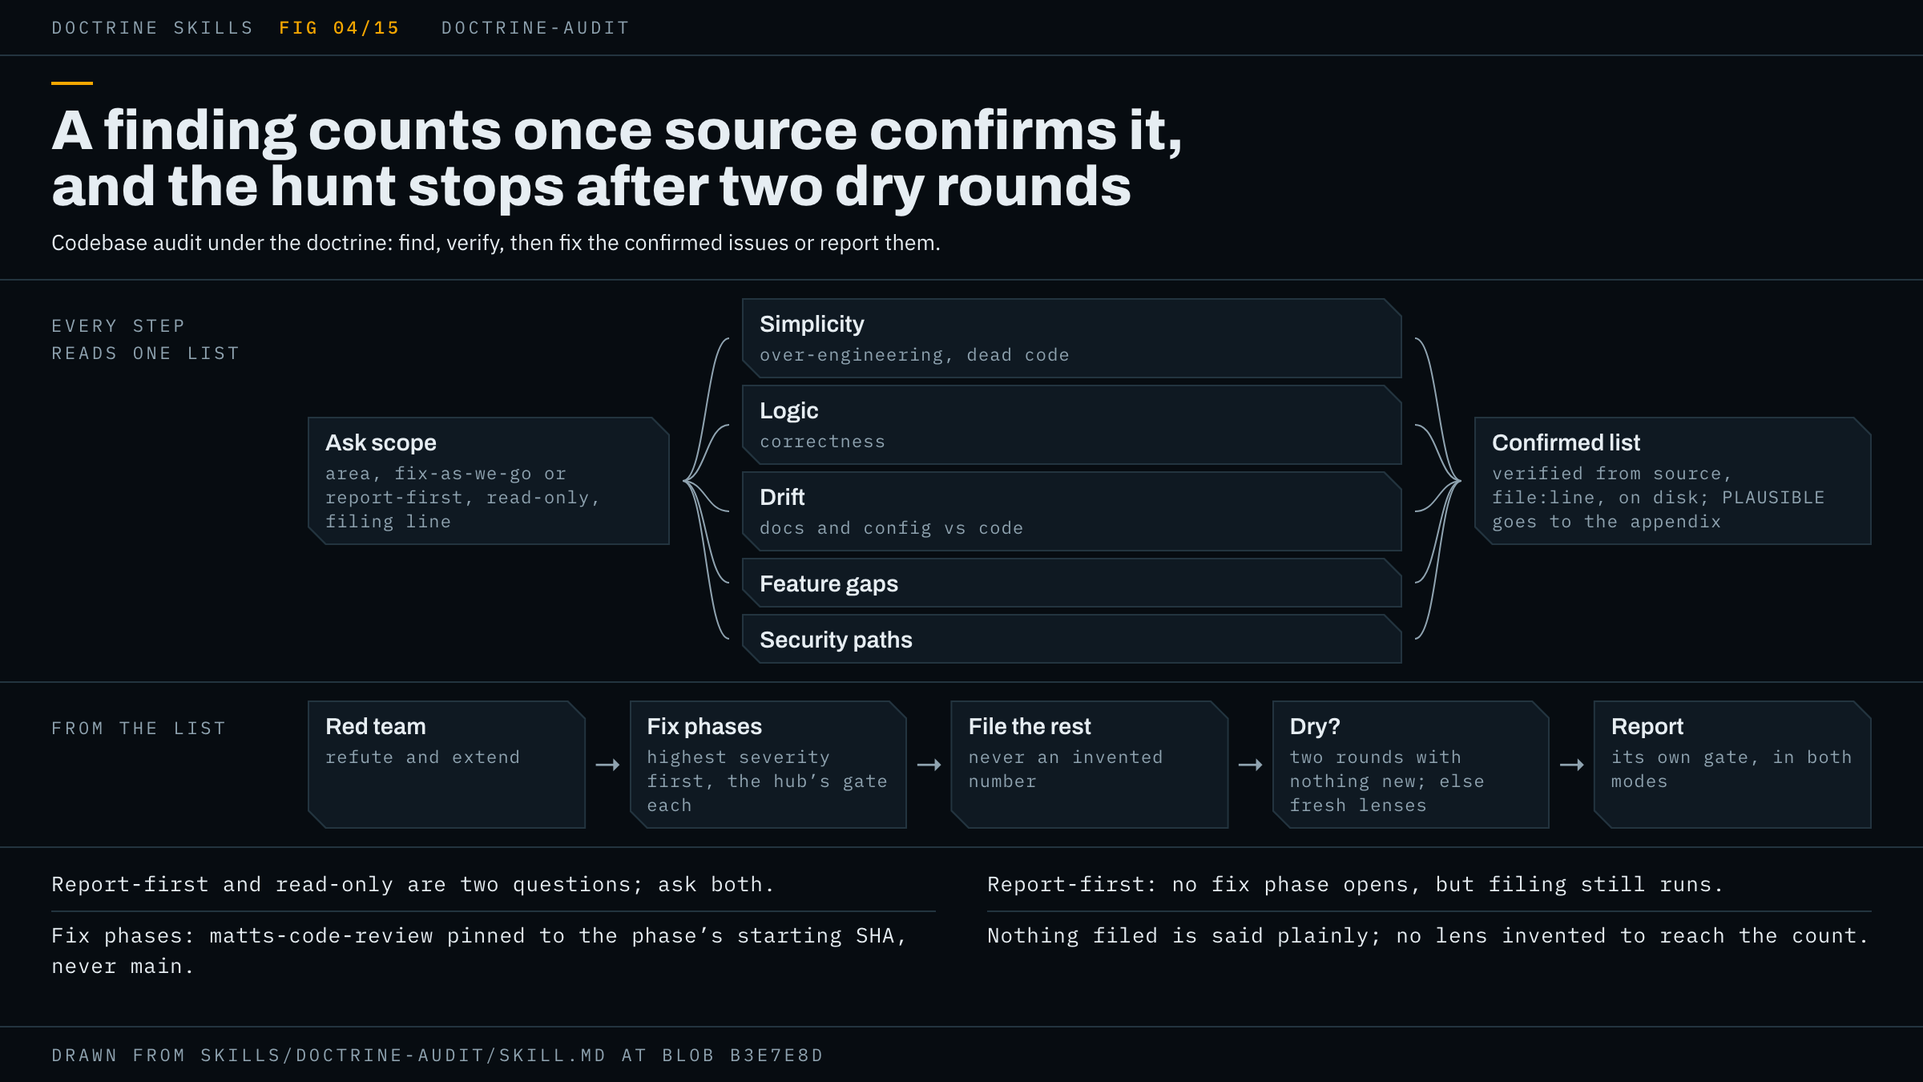
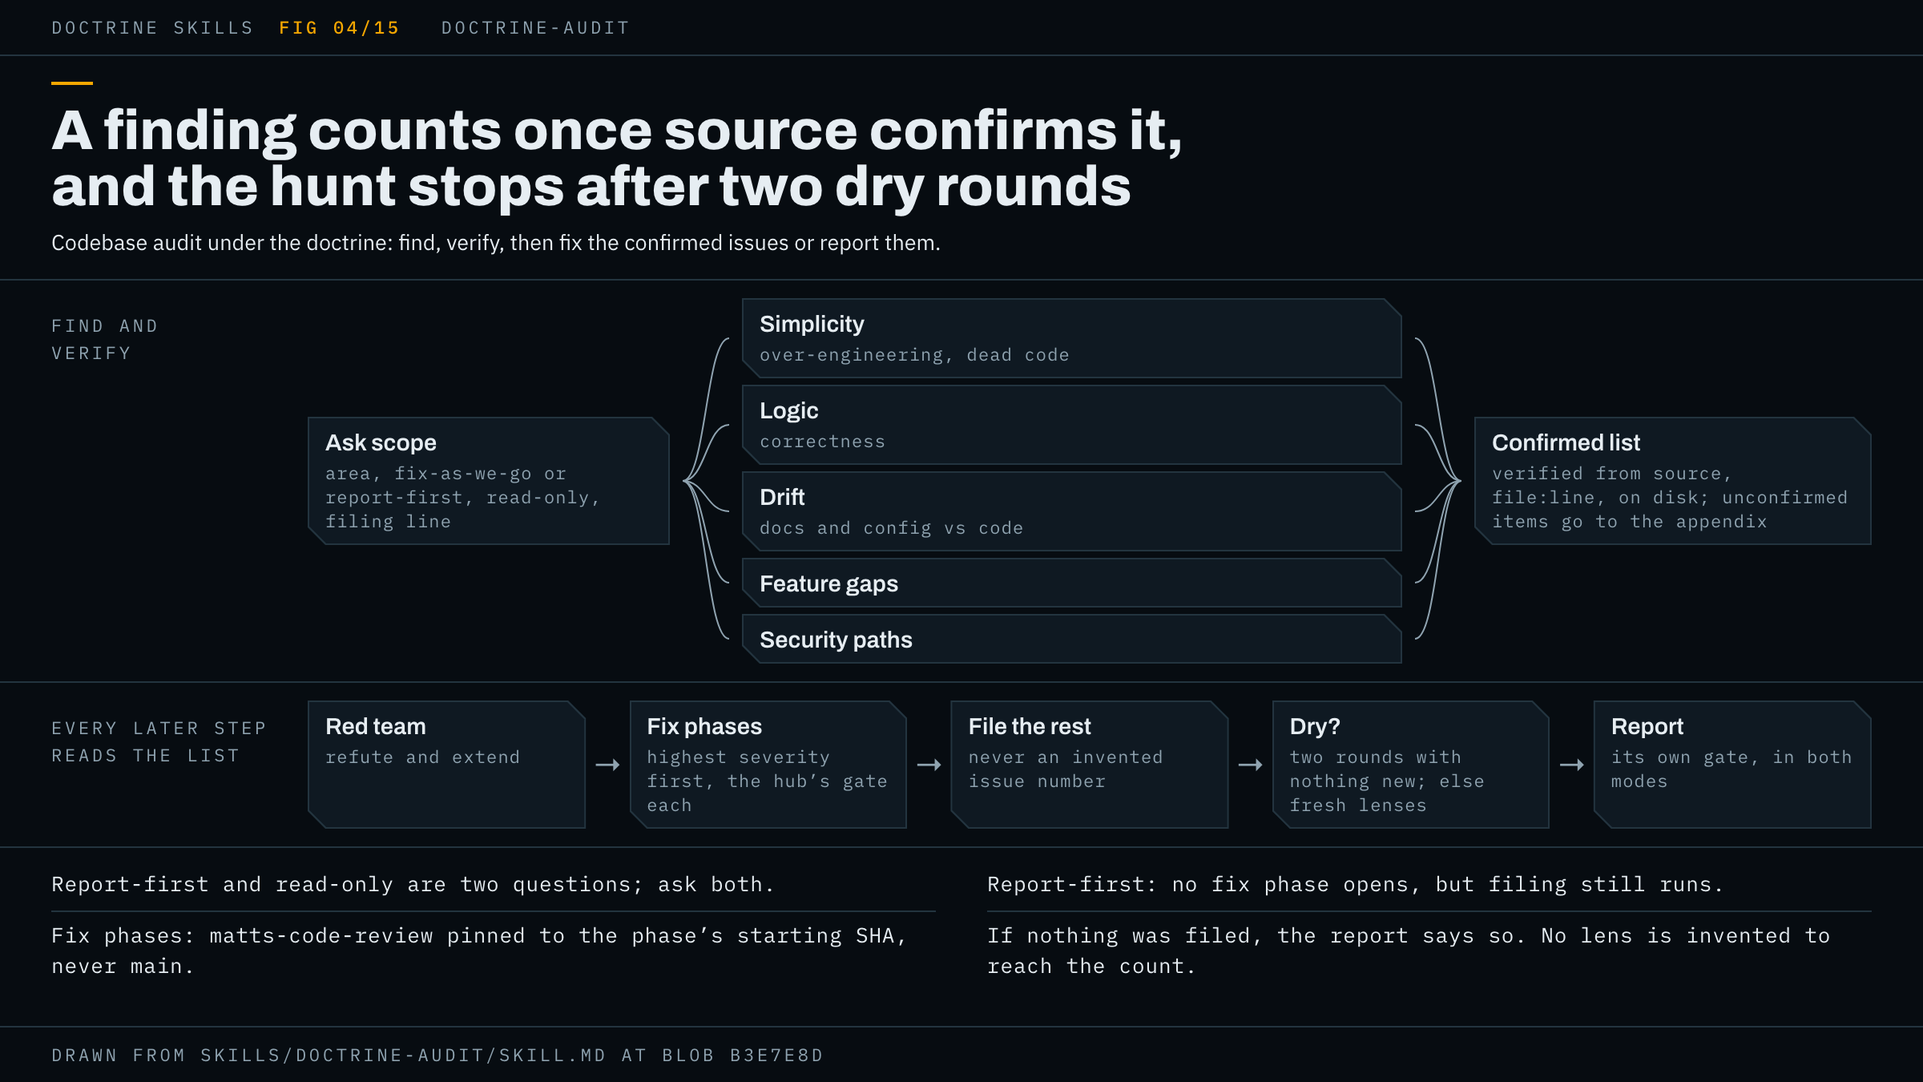
doctrine-audit page: drift fixes are in scope, the gate proposal, the deferred list and both gate lines; figure row labels and notes

diff --git a/docs/skills/figures/doctrine-audit.html b/docs/skills/figures/doctrine-audit.html
@@ -17,7 +17,7 @@
 </section>
 
 <section class="row">
-  <div class="label">Every step<br>reads one list</div>
+  <div class="label">Find and<br>verify</div>
   <div class="fan">
     <div class="col" style="width:226px"><div class="box" id="ask"><b>Ask scope</b><span>area, fix-as-we-go or report-first, read-only, filing line</span></div></div>
     <svg class="wires" data-from="#ask" data-to=".lens"></svg>
@@ -29,18 +29,18 @@
       <div class="box lens"><b>Security paths</b></div>
     </div>
     <svg class="wires" data-from=".lens" data-to="#list"></svg>
-    <div class="col" style="flex:1"><div class="box" id="list"><b>Confirmed list</b><span>verified from source, file:line, on disk; PLAUSIBLE goes to the appendix</span></div></div>
+    <div class="col" style="flex:1"><div class="box" id="list"><b>Confirmed list</b><span>verified from source, file:line, on disk; unconfirmed items go to the appendix</span></div></div>
   </div>
 </section>
 
 <section class="row">
-  <div class="label">From the list</div>
+  <div class="label">Every later step<br>reads the list</div>
   <div class="flow">
     <div class="box"><b>Red team</b><span>refute and extend</span></div>
     <div class="arrow">→</div>
     <div class="box"><b>Fix phases</b><span>highest severity first, the hub’s gate each</span></div>
     <div class="arrow">→</div>
-    <div class="box"><b>File the rest</b><span>never an invented number</span></div>
+    <div class="box"><b>File the rest</b><span>never an invented issue number</span></div>
     <div class="arrow">→</div>
     <div class="box"><b>Dry?</b><span>two rounds with nothing new; else fresh lenses</span></div>
     <div class="arrow">→</div>
@@ -52,7 +52,7 @@
   <p>Report-first and read-only are two questions; ask both.</p>
   <p>Report-first: no fix phase opens, but filing still runs.</p>
   <p>Fix phases: matts-code-review pinned to the phase’s starting SHA, never main.</p>
-  <p>Nothing filed is said plainly; no lens invented to reach the count.</p>
+  <p>If nothing was filed, the report says so. No lens is invented to reach the count.</p>
 </section>
 
 <footer class="foot">Drawn from skills/doctrine-audit/SKILL.md at blob b3e7e8d</footer>

diff --git a/docs/skills/doctrine-audit.md b/docs/skills/doctrine-audit.md
@@ -2,9 +2,9 @@
 
 A bug hunt or deep code audit under the doctrine. Parallel finders sweep an area of your codebase, every finding is confirmed against source before it counts, a red team attacks the confirmed list, and the run either fixes what it confirmed or hands you a report, whichever you chose. The hunt stops after two rounds in a row find nothing new.
 
-![Scope questions feed five parallel finder lenses into one confirmed list on disk; from that list a red team refutes and extends, fix phases run highest severity first under the hub's gate, the rest is filed, and fresh rounds loop back until two come back dry, then the report goes through its own gate.](doctrine-audit.png)
+![Scope questions feed five parallel finder lenses into one confirmed list on disk; from that list a red team refutes and extends, fix phases run highest severity first under the hub's gate, the rest is filed, and fresh rounds loop back until two come back dry, then the report goes through its own gate. The Dry? box sends the run back to fresh lenses until two rounds confirm nothing new.](doctrine-audit.png)
 
-The figure reads top to bottom. The answers to the scope questions go to five finder lenses, and their findings, once verified, land in one confirmed list. Every later step reads that list: the red team, the fix phases, the filing, and the dry-round test that ends the hunt. The report closes the run and passes a gate of its own.
+The figure reads top to bottom. The top row finds and verifies: your scope answers go to five finder lenses, and their findings, once confirmed, land in one list. The bottom row reads that list: the red team, the fix phases, the filing, and the dry-round test. The report closes the run and passes a gate of its own.
 
 ## When to use it
 
@@ -14,7 +14,9 @@ Use a neighbouring skill when the job is different:
 
 - Something is already broken, throwing, failing or slow: `doctrine-debug`, which starts from the symptom.
 - A feature or a spec to build: `doctrine-code`.
-- Documentation that has fallen behind the code: `doctrine-docs`. The audit has a drift lens that reports where docs or config disagree with code, but it does not rewrite your docs.
+- A sweep that brings all your documentation up to date: `doctrine-docs`. The audit has a drift lens that finds where docs or config disagree with code, but a documentation sweep is a different job with a different gate.
+
+It is not for a one-off question or a one-off edit to a single file nothing else reads. A one-file scope is fine for a first audit.
 
 It is a wrapper. It loads the hub, [`doctrine`](doctrine.md), and adds only the shape of an audit. The hub supplies the posture: the anchor, the gate every phase passes, the red team's rules, the alarms and the delivery line. This page says what the audit adds.
 
@@ -31,7 +33,7 @@ Report-first and read-only are separate questions, and it asks both. Report-firs
 
 These are direction questions under the hub's rule. An open one blocks the run until you answer, even where every answer would satisfy your request, because your answers decide what the audit changes and what it delivers. It never runs on the narrower reading instead.
 
-Your answers are written to disk before the first wave, in the same file as the confirmed list. The rulings that bind a seat's conduct (scope, report-first, read-only) go into every finder, fixer and reviewer prompt. The hub hands your words only to seats that judge work, and a finder does not judge, so without this it would never learn the tree is read-only.
+Your answers are written to disk before the first wave, in the same file as the confirmed list. The rulings that bind a seat's conduct (scope, report-first, read-only) go into every finder, fixer and reviewer prompt, so even a finder knows when the tree is read-only.
 
 ## How the run goes
 
@@ -43,19 +45,19 @@ Your answers are written to disk before the first wave, in the same file as the 
 - feature gaps
 - security-sensitive paths
 
-The simplicity lens applies ponytail's audit posture, scoped to your target area and not the whole repo. A dispatched seat cannot load a skill by name, so the orchestrating agent puts that posture's content into the lens prompt. Without ponytail, the lens gets the hub's substitute, a read that reports and changes nothing. Every finding needs `file:line` evidence, and duplicates across waves are merged.
+The simplicity lens applies ponytail's `/ponytail-audit` posture, scoped to your target area and not the whole repo. Without ponytail, it gets the hub's substitute, a read that reports and changes nothing. Every finding needs `file:line` evidence, and duplicates across waves are merged.
 
 **Verify.** A finding counts only once it is confirmed from source. Hunt-style findings have a high false-positive rate, and a finding nobody traced to a line is noise. Items that stay only plausible are never fixed. They go to the report's appendix, or to a tracker issue marked unverified.
 
-Confirmed findings are written to a file as they are verified: the report's own path if you settled one, otherwise a run-state file beside the work or in scratch space, named in the report. Each line holds an id, `file:line`, severity, the evidence that confirmed it, and a state: confirmed, red-teamed, fixed, filed or declined. A second file beside it, read only by the orchestrating agent, holds the counters, including the dry-round count. Both live on disk because a long audit gets compacted between rounds. A list kept only in context comes back empty: round 3 re-files what round 1 fixed, and the dry count silently restarts at zero.
+Confirmed findings are written to a file as they are verified: the report's own path if you settled one, otherwise a run-state file beside the work or in scratch space, named in the report. Each line holds an id, `file:line`, severity, the evidence that confirmed it, and a state: confirmed, red-teamed, fixed, filed or declined. A second file beside it, read only by the orchestrating agent, holds the counters, including the dry-round count. Both live on disk because a long audit outlasts the agent's working memory, which is summarised and cleared between rounds. A list kept only in memory comes back empty: round 3 re-files what round 1 fixed, and the dry count silently restarts at zero.
 
-**Red team.** The confirmed list goes to the red team to refute and to extend. It also gets every finder's raw output, plausible and rejected items included, each with the reason verify set it aside, since a real defect dismissed at verify shows up nowhere else. It gets the findings and evidence only, never the counters. Its extend half covers the five lenses by name, and for simplicity it holds what that finder held. Anything it adds is verified the same way before it counts.
+**Red team.** The confirmed list goes to the red team to refute and to extend. It also gets every finder's raw output, plausible and rejected items included, each with the reason verify set it aside, since a real defect dismissed at verify shows up nowhere else. It never sees the counters. Its extend half covers the five lenses by name, and for simplicity it gets the same ponytail posture or substitute the finder had. Anything it adds is verified the same way before it counts.
 
 **Fix or file.** In fix-as-we-go mode, confirmed issues are fixed in phases, highest severity first, each phase under the hub's gate. Anything with a non-obvious root cause goes through Matt Pocock's `diagnosing-bugs`. Everything above your filing line is filed on the tracker your project's AGENTS.md or CLAUDE.md names.
 
-In report-first mode nothing edits the repo and no fix phase opens, but filing still runs, because filing writes to a tracker and fixes nothing. Every confirmed issue is filed. If the tracker lives inside the repo and you ruled read-only, filing there is a repo write, so those items go in the report as unfiled, said plainly.
+In report-first mode no fix touches the repo and no fix phase opens, but filing still runs, because filing writes to a tracker and fixes nothing. Every confirmed issue is filed. If the tracker lives inside the repo and you ruled read-only, filing there is a repo write, so those items go in the report as unfiled, said plainly.
 
-If there is no tracker to file on (none named, the CLI not signed in, or you never said where issues go), it checks your project's conventions and asks you. Failing that, it carries the full list in the report and states that nothing was filed. It never invents an issue number and never drops a finding for having nowhere to go.
+If there is no tracker to file on (none named, its CLI such as `gh` not signed in, or you never said where issues go), it checks your project's conventions and asks you if they say nothing. Failing that, it carries the full list in the report and states that nothing was filed. It never invents an issue number and never drops a finding for having nowhere to go.
 
 Larger architectural refactors found along the way are not rewritten mid-audit. They go through Matt Pocock's `improve-codebase-architecture` where it is installed, or are filed as issues.
 
@@ -65,13 +67,16 @@ Larger architectural refactors found along the way are not rewritten mid-audit. 
 
 ## The gates
 
-**Each fix phase** passes the hub's full gate: your project's documented checks, a designated review, and a red team, looping until one pass comes clean. The hub's two alarms bound every phase: the round alarm, every fourth round that found a blocking finding unless you set another figure, and the time alarm, two hours unless you set another budget. Either alarm stops the loop and puts a diagnosis to you for a ruling. The hub's simplification review runs inside each phase, before the pass that certifies it.
+**Each fix phase** passes the hub's gate: your project's documented checks, a designated review, and a red team, looping until one pass comes clean. Before a phase, the hub has the agent search what the change reaches and propose a gate. Only you can put a phase on the hub's reduced gate, which drops the loop, the designated review and the alarms, and with no answer the phase runs the full gate. The hub's two alarms bound every phase: the round alarm, every fourth round that found a blocking finding unless you set another figure, and the time alarm, two hours unless you set another budget. Either alarm stops the loop and puts a diagnosis to you for a ruling. The hub's simplification review runs inside each phase, before the pass that certifies it.
 
-The designated review for fix phases is `matts-code-review`. The audit points it with three things:
+The designated review for fix phases is `matts-code-review`. The audit points it with three things, each of which prevents a failure:
 
 - **A fixed point**: the SHA the fix phase started from, taken with `git rev-parse HEAD` before the phase's first edit. Never `main` and never the merge-base. With no fixed point the review stops and asks you, twice a phase, every phase. With a branch ref it re-reviews fix phases that already closed and re-files their findings, which the gate counts as outstanding, so no pass can come clean.
 - **A spec source**: the confirmed-list entries this phase fixes, or the tracker issues filed for them. Without one, the review's Spec half skips and it reviews on one axis of two. Issue references resolve only where Matt's `docs/agents/issue-tracker.md` exists. Otherwise it passes the file path.
-- **What the work rests on**, handed to the review and to each fix phase's red team alike: your standards sources as they read at the fixed point, so a diff that loosens a standard is not judged against its own loosening; the `diagnosing-bugs` evidence behind each non-obvious root cause the phase fixes, so the fix is not judged against the symptom; and, for a refactor run through `improve-codebase-architecture`, that skill's SKILL.md by path, or word that its fallback was taken and the refactor filed instead.
+- **What the work rests on**, handed to the review and to each fix phase's red team alike:
+  - your standards sources as they read at the fixed point, so a diff that loosens a standard is not judged against its own loosening
+  - the `diagnosing-bugs` evidence behind each non-obvious root cause the phase fixes, so the fix is not judged against the symptom
+  - for a refactor run through `improve-codebase-architecture`, that skill's SKILL.md, or word that its fallback was taken and the refactor filed instead
 
 **The report** is a deliverable in both modes, so it gets a phase of its own, after the last fix phase in fix-as-we-go mode. That phase runs under the hub's prose-deliverable exit: one clean pass by default. If no pass has come clean when the round alarm first fires, one closing round runs, scoped to what changed since the last fully reviewed revision (or to the whole report if no revision was), and the report ships with a punch list of what was not fixed. Its gate has three parts:
 
@@ -79,19 +84,22 @@ The designated review for fix phases is `matts-code-review`. The audit points it
 - **The designated review**: a fresh-context review of the finished report against your words and the confirmed list. `matts-code-review` reviews code against standards and a spec, not a prose report.
 - **The red team**: handed the finished report as well as the confirmed list.
 
-The red team in every gate is the `codex:codex-rescue` seat, a model from a different family, or a fresh-context subagent told to refute where the codex plugin is absent, named in the report as a same-model substitute. Its return must separate blocking from non-blocking findings and list what it attacked and could not break. "No findings" with no such list counts as a failed seat.
+The red team in every gate is the `codex:codex-rescue` seat, a model from a different family. Where the codex plugin is absent, a fresh-context subagent told to refute stands in, and the run names it as a same-model substitute. Its return must separate blocking from non-blocking findings and list what it attacked and could not break. "No findings" with no such list counts as a failed seat.
 
 ## How it ends
 
-The run ends with your repo's delivery norm, a commit or a pull request, never with "the loop is clean". In report-first mode the report goes where your project keeps reports. If there is no such place it asks you, and under read-only it hands the report over without committing it. The report, the confirmed list and anything filed are delivered together, and the report names what was left unfiled.
+The run ends with your repo's delivery norm, a commit or a pull request, never with "the loop is clean". Under read-only it ends instead with the report handed to you, uncommitted. In report-first mode the report goes where your project keeps reports, and if there is no such place it asks you. The report, the confirmed list and anything filed are delivered together, and the report names what was left unfiled.
 
-The report opens with one line saying whether the shipping revision is certified and which blocking findings are still open, as in the README's example:
+The report opens with one line saying whether the shipping revision is certified and which blocking findings are still open. The README shows two of its forms:
 
 ```text
 Gate: clean pass on 4a3e4ca, real run on record. No blockers open.
+Gate: shipped at an escalation, round 6, zero clean passes. Open: 2 blocking findings.
 ```
 
-Then it walks your request item by item, saying where each landed or why it was deferred. Each phase ends in one of the hub's five states, and only Exited is clean. Stopped means you ended the loop. Shipped at an escalation means delivery after an alarm, or after the report's closing round, with a punch list. Blocked means a question of yours is still unanswered. Unable means the run cannot resume by itself, for example because write access went away.
+Then it walks your request item by item, saying where each landed or why it was deferred, and lists the non-blocking improvements it found and deferred.
+
+Each phase ends in one of the hub's five states, and only Exited is clean. Exited means a pass came clean. Stopped means you ended the loop. Shipped at an escalation means delivery after an alarm, or after the report's closing round, with a punch list. Blocked means a question put to you is still unanswered. Unable means the run cannot resume by itself, for example because write access went away.
 
 ## A worked example
 
@@ -106,7 +114,7 @@ A1  src/importer.ts:88   high  duplicate header silently overwrites a field  con
 A2  src/importer.ts:140  low   dead branch, needs a schema change to remove   confirmed
 ```
 
-The plausible item goes to the appendix. The red team refutes nothing and adds A3, a null path at line 61, which is traced and confirmed. A2 is above your filing line, so it is filed on your tracker. A fix phase opens on A1 and A3, pinned to the SHA it started from, and runs the full gate until a pass comes clean. Rounds 2 and 3 use fresh lenses and confirm nothing new, so the hunt is dry. The report then passes its own gate and ships with the commit.
+The plausible item goes to the appendix. The red team refutes nothing and adds A3, a null path at line 61, which is traced and confirmed. A2 needs a schema change, which you ruled is filed, so it goes to your tracker. A fix phase opens on A1 and A3, its review pinned to the SHA it started from, and loops through the gate until a pass comes clean. Rounds 2 and 3 use fresh lenses and confirm nothing new, so the hunt is dry. The report then passes its own gate and ships with the commit.
 
 ## How to invoke it
 
@@ -116,7 +124,7 @@ Ask for a bug hunt or a deep code audit done with the doctrine, and name the are
 use doctrine-audit on src/whatever.ts (scope is that file only)
 ```
 
-A fuller request answers the scope questions up front: `Run doctrine-audit on packages/billing, report-first, read-only. I want drift between the docs and the code, and anything that writes a price.`
+A fuller request answers most of the scope questions up front, leaving only the filing line to ask: `Run doctrine-audit on packages/billing, report-first, read-only. I want drift between the docs and the code, and anything that writes a price.`
 
 ## Requirements
 
@@ -127,7 +135,7 @@ Nothing has to be installed. Each external skill has a fallback, in the hub's fa
 - Matt Pocock's `improve-codebase-architecture`. Without it: architectural refactors are filed as issues.
 - ponytail, for the simplicity lens and the simplification review. Without it: a read that reports and changes nothing for the lens, and `/simplify` or a manual pass for the review.
 - OpenAI's codex plugin, for the red team from a different model family. Without it: a fresh-context subagent told to refute.
-- superpowers, for parallel dispatch. Without it: parallel seat dispatches, each with its own assembled prompt.
+- superpowers, for parallel dispatch and worktrees. Without it: parallel seat dispatches, each with its own assembled prompt.
 
 Install commands and the full list are in [`docs/requirements.md`](../requirements.md). To watch the seats while they run, see [watching a run](../watching-a-run.md).
 
